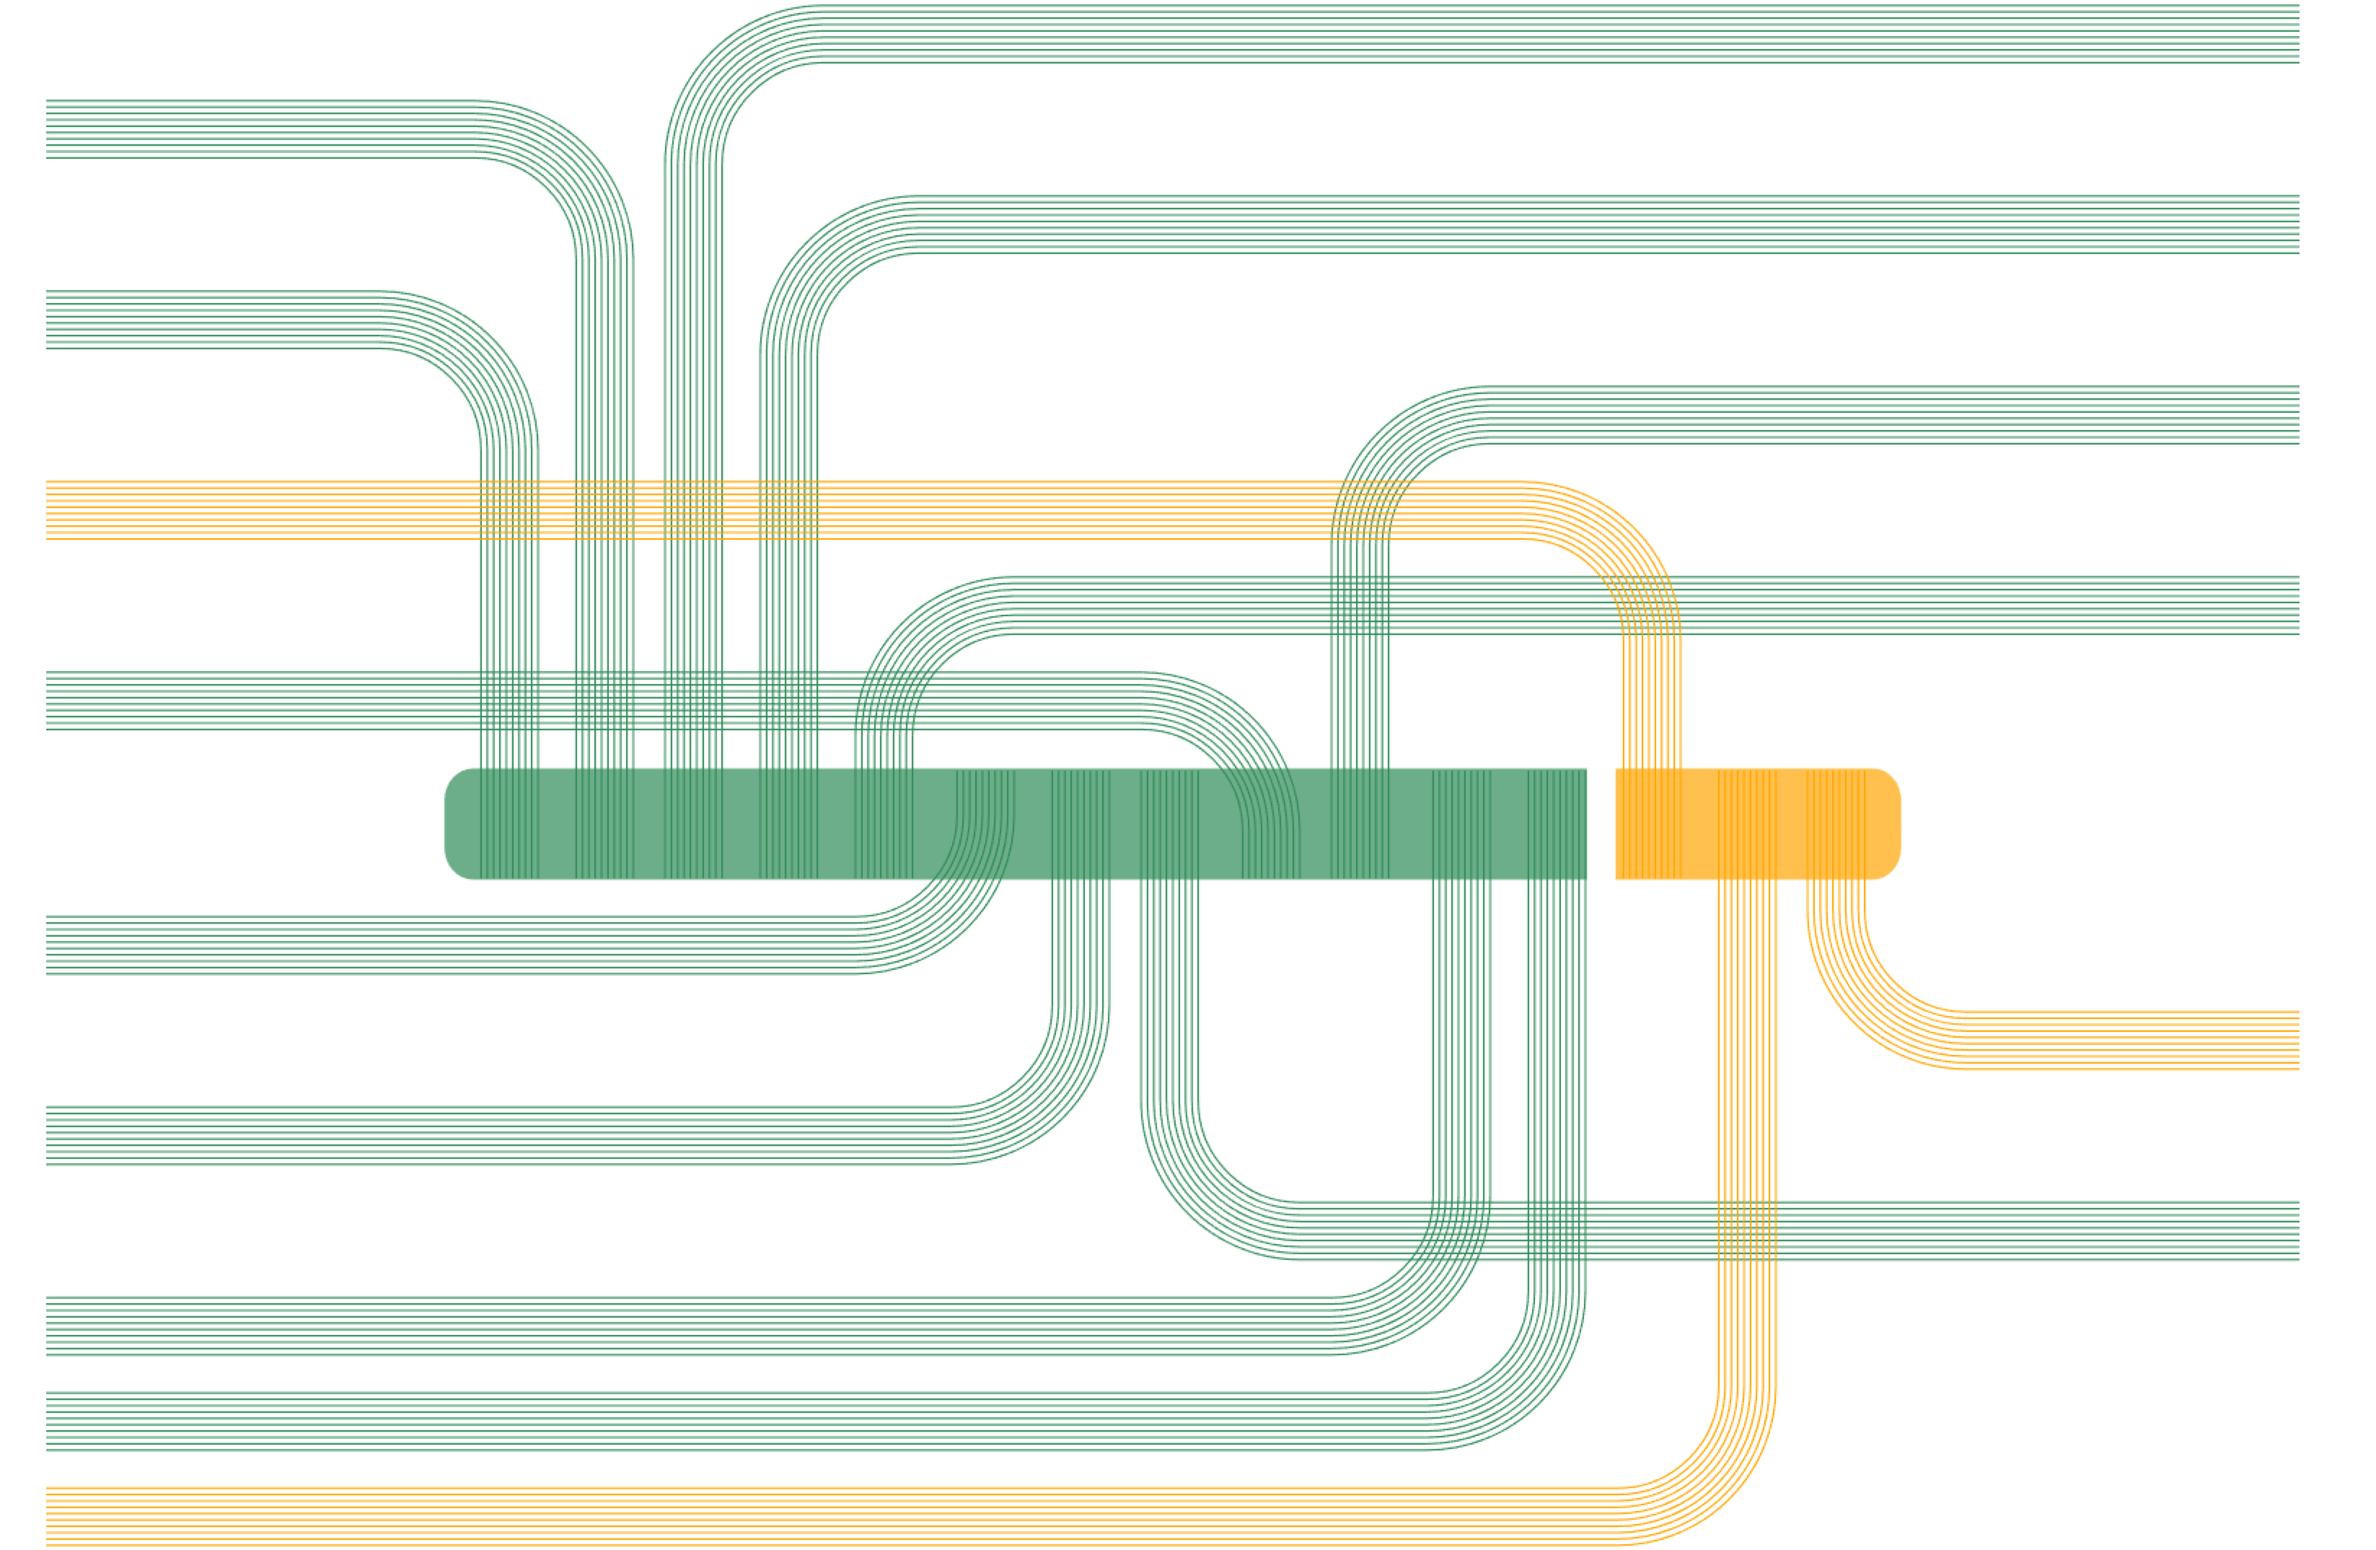
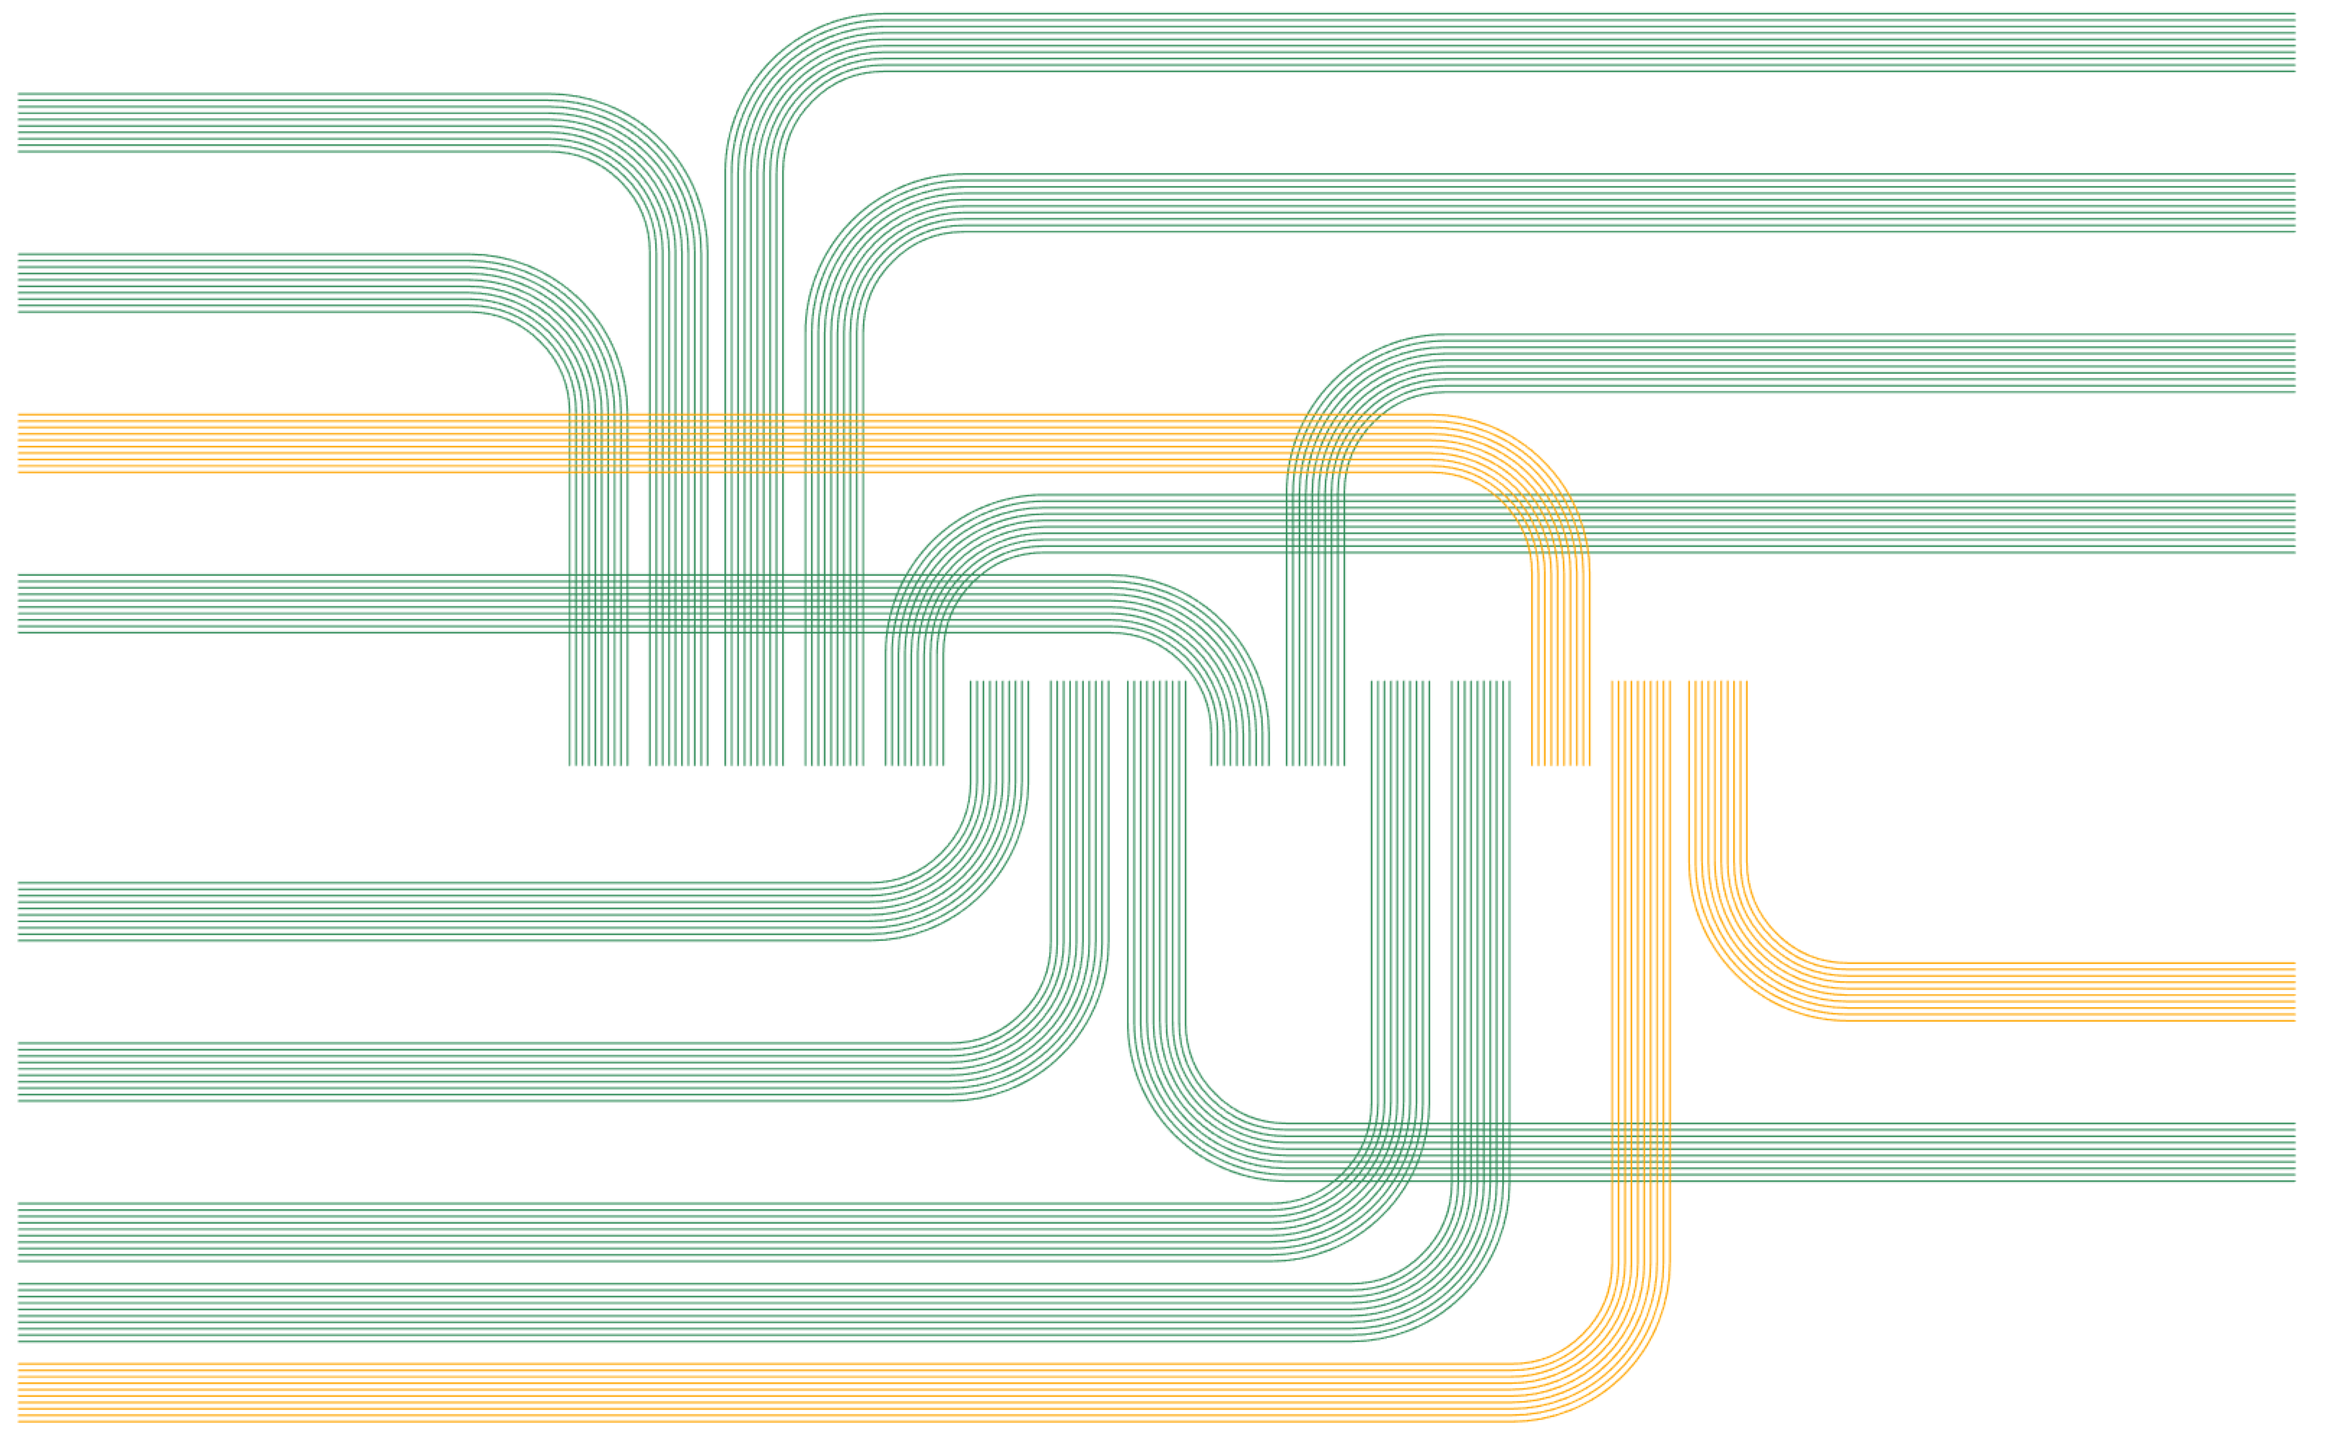
enhancing

diff --git a/lib/estimate-antibiotics.js b/lib/estimate-antibiotics.js
@@ -28,18 +28,18 @@ function EstimateAntibiotics() {
  * @return {[type]}
  */
 function init(parent, config) {
-    var input = config || baseConf;
+    let input = config || baseConf;
 
     detectSVG(parent);
 
 
-    var svg = d3.select('#' + parent.id + ' svg'),
+    let svg = d3.select('#' + parent.id + ' svg'),
         margin = { top: 50, right: 40, bottom: 50, left: 40 };
 
     svg.attr('width', 1500)
         .attr('height', 1200);
 
-    var width = svg.attr('width') - margin.left - margin.right,
+    let width = svg.attr('width') - margin.left - margin.right,
         height = svg.attr('height') - margin.top - margin.bottom,
         gTop = svg.append('g')
         .attr('class', 'gTop')
@@ -56,15 +56,15 @@ function init(parent, config) {
         }));
 
 
-    $('#' + parent.id + ' #centerDiv')
-        .append($('<div/>', {
-            id: 'div2',
-            class: 'div2'
-        }))
-        .append($('<div/>', {
-            id: 'div3',
-            class: 'div3'
-        }));
+    // $('#' + parent.id + ' #centerDiv')
+    //     .append($('<div/>', {
+    //         id: 'div2',
+    //         class: 'div2'
+    //     }))
+    //     .append($('<div/>', {
+    //         id: 'div3',
+    //         class: 'div3'
+    //     }));
 
     const centerDivWidth = parseFloat($('#centerDiv').css('width'));
 
@@ -77,6 +77,7 @@ function init(parent, config) {
 
     baseConf.top.map((e,i)=>{
       let color= (e.x>=5?'orange':'seagreen')
+
       copy15('top',e.direction,color,e.x,e.y)
     })
 
@@ -103,7 +104,7 @@ function init(parent, config) {
         .append('rect')
         .attr('width', '1420')
         .attr('class', 'clippath')
-        .attr('transform', (d, i) => ('translate(0,' + (510 * i-20) + ')'))
+        .attr('transform', (d, i) => ('translate(0,' + (525 * i-20) + ')'))
         .attr('height', maskHeight);
 
 
@@ -140,13 +141,13 @@ function init(parent, config) {
             .attr('fill', 'none');
 
         if (direction === 'left' && postion === 'top') {
-            gChild.attr('transform', 'translate(' + (-width / 2 + 40 / 2 + dx * 60) + ',' + (maskHeight - 140 - dy * 60) + ')');
+            gChild.attr('transform', 'translate(' + (-width / 2 + 40 / 2 + dx * 50+1) + ',' + (maskHeight - 140 - dy * 50) + ')');
         } else if (direction === 'right' && postion === 'top') {
-            gChild.attr('transform', 'translate(' + (width + width / 2 - 40 / 2 + dx * 60) + ',' + (maskHeight - 140 - dy * 60) + ')');
+            gChild.attr('transform', 'translate(' + (width + width / 2 - 40 / 2 + dx * 50) + ',' + (maskHeight - 140 - dy * 50) + ')');
         } else if (direction === 'left' && postion === 'bottom') {
 
-            let x = -width / 2 + 40 / 2 + dx * 60;
-            let y = maskHeight - 390 + dy * 60-580;
+            let x = -width / 2 + 40 / 2 + dx * 50+1;
+            let y = maskHeight - 390 + dy * 50-520;
 
             gChild.style('transform-origin', '0 500px')
             gChild.style('transform', 'translate(' + (x) + 'px,' + (y) + 'px) scaleY(-1)')
@@ -154,8 +155,8 @@ function init(parent, config) {
 
         } else if (direction === 'right' && postion === 'bottom') {
 
-            let x = width + width / 2 - 40 / 2 + dx * 60;
-            let y = maskHeight - 390 + dy * 60-580;
+            let x = width + width / 2 - 40 / 2 + dx * 50+1;
+            let y = maskHeight - 390 + dy * 50-520;
 
 
 
@@ -183,34 +184,34 @@ function init(parent, config) {
      */
     function copy15(pos, direction, color, dx, dy) {
         return basicCurve([{
-            offset: 0,
+            offset: 0+1,
             strokeWidth: 1
         }, {
-            offset: 4,
+            offset: 4+1,
             strokeWidth: 1
         }, {
-            offset: 8,
+            offset: 8+1,
             strokeWidth: 1
         }, {
-            offset: 12,
+            offset: 12+1,
             strokeWidth: 1
         }, {
-            offset: 16,
+            offset: 16+1,
             strokeWidth: 1
         }, {
-            offset: 20,
+            offset: 20+1,
             strokeWidth: 1
         }, {
-            offset: 24,
+            offset: 24+1,
             strokeWidth: 1
         }, {
-            offset: 28,
+            offset: 28+1,
             strokeWidth: 1
         }, {
-            offset: 32,
+            offset: 32+1,
             strokeWidth: 1
         }, {
-            offset: 36,
+            offset: 36+1,
             strokeWidth: 1
 
         }], pos, direction, color, dx, dy);

diff --git a/README.md b/README.md
@@ -273,8 +273,10 @@ estimateAntibiotics.init(oDom, config)
 ```
 It will render as below:
 
-<img src="./docs/estimate-antibiotics-init.png" width='500'>
-<img src="./docs/estimate-antibiotics-init2.png" width='500'>
+<img src="./docs/estimate-antibiotics-init.png" width='1000'>
+
+
+<img src="./docs/estimate-antibiotics-init2.png" width='1000'>
 ### estimateAntibiotics.topLeft()
 ```
 estimateAntibiotics.topLeft(oDom, config)
